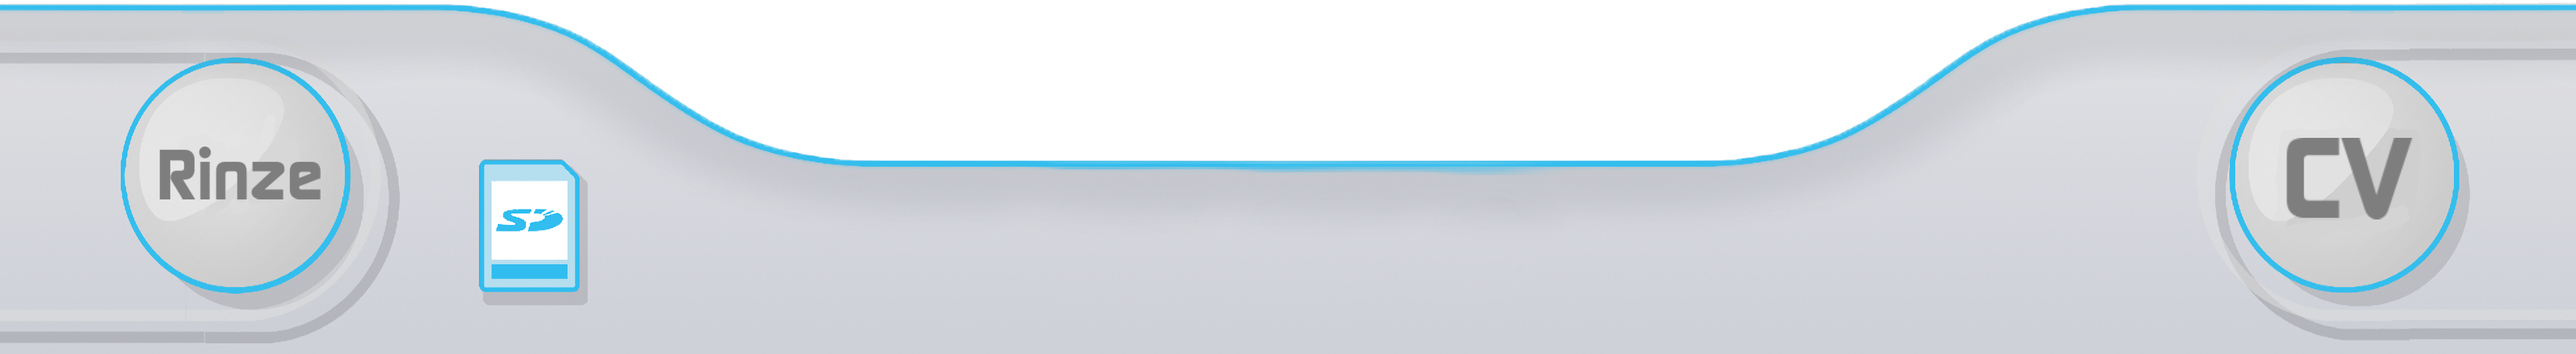
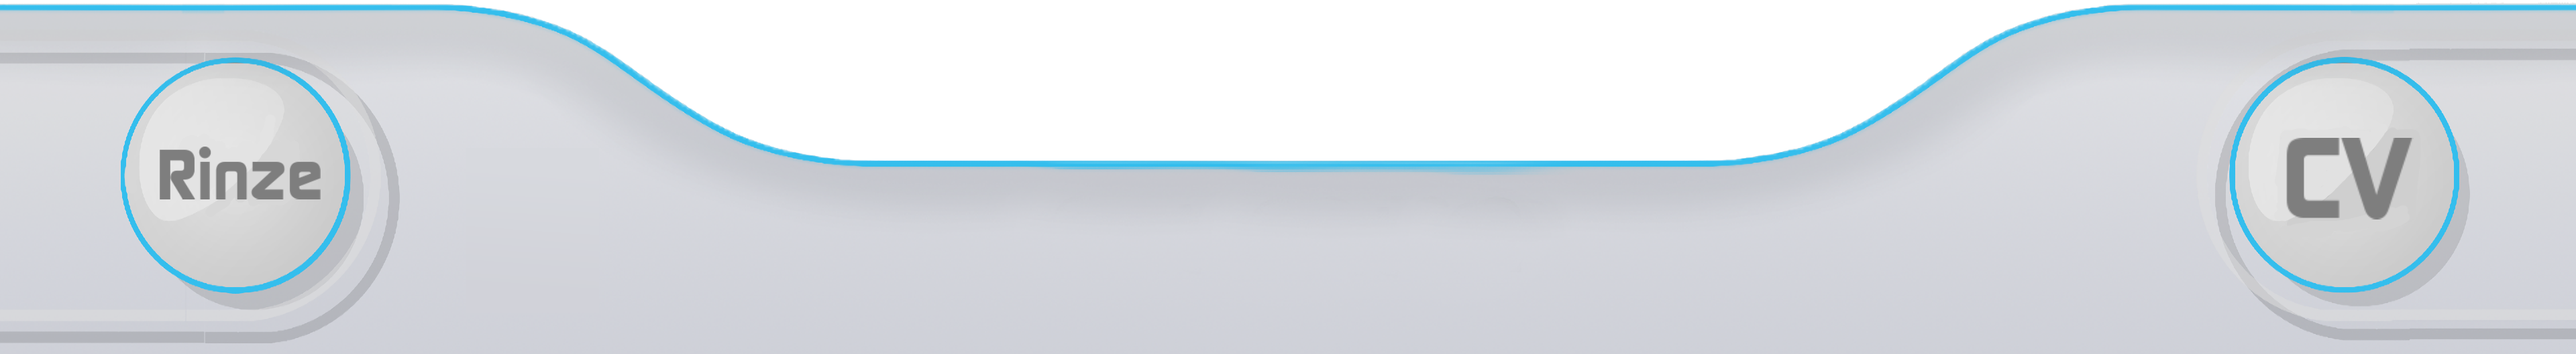
wadawd

Changed region(s): [[0.1875, 0.4234, 0.25, 0.8771]]

diff --git a/script.js b/script.js
@@ -1,4 +1,3 @@
-
 const overlay = document.getElementById("overlay");
 const overlay2 = document.getElementById("overlay2");
   let popup = document.querySelector(".popup");
@@ -247,15 +246,20 @@ cells.forEach(cell => {
     downloadLink: "https://schrecklock.itch.io/cadenza",
     title: "Monkey Survivors",
     tags: ["2024", "Unity", "2D", "Group", "Roguelike", "Bullet Hell", "Pixel-art", "Silly", "Addicting"],
-    description: `Monkey Survivors is a fast-paced mobile roguelike bullet hell focused on tight feedback, satisfying progression, and highly responsive combat. 
-    During this group project, I took a leading role in gameplay programming, feel, optimisation and art, implementing core systems such as: Player movement and combat responsiveness. 
-    
-    Enemy wave logic and object-pooling system. 
-    Visual and audio feedback systems.
-    
-    I also fully designed the UI and gameplay mechanics. I worked in Unity (C#) and focused on creating a highly polished game feel, aswell as a bunch off particle effects and sound-effects to make the game as addicting as possible. 
-    The result was one of the highest-reviewed projects in our class, largely due to its responsiveness and satisfying gameplay loop. 
-    This project significantly improved my ability to design systems that feel good, not just function correctly.`,
+    description: `
+      <p>Monkey Survivors is a fast-paced mobile roguelike bullet hell focused on tight feedback, satisfying progression, and highly responsive combat.</p>
+      
+      <p>During this group project, I took a leading role in gameplay programming, feel, optimisation and art, implementing core systems such as:</p>
+      <ul>
+        <li>Player movement and combat responsiveness</li>
+        <li>Enemy wave logic and object-pooling system</li>
+        <li>Visual and audio feedback systems</li>
+      </ul>
+      
+      <p>I also fully designed the UI and gameplay mechanics. I worked in Unity (C#) and focused on creating a highly polished game feel, as well as a bunch of particle effects and sound-effects to make the game as addicting as possible.</p>
+      
+      <p>The result was one of the highest-reviewed projects in our class, largely due to its responsiveness and satisfying gameplay loop. This project significantly improved my ability to design systems that feel good, not just function correctly.</p>
+    `,
     screenshots: ["Monkey Survivors Trailer.mp4"],
     },
 
@@ -264,7 +268,20 @@ cells.forEach(cell => {
     downloadLink: "https://gamejolt.com/games/FiveNightsatmarijns/902235",
     title: "Five Nights at Marijn's",
     tags: ["2025", "Unity", "Solo", "3D", "Horror", "Ambience", "Comedy", "Fast-paced"],
-    description: `You might be wondering what you are even seeing right now, I know this looks stupid (it is) but this is actually my very first solo project I did in my own time on and off for about a year, what started off as a joke about adding my friend into a Five Nights at Freddy's game quickly spiraled into one of my most ambitious solo projects:  7 fully playable nights with different game-elements in each, a shop and upgrade system, voice acting, cutscenes, minigames, 3 different endings and ALOT more! I did everything myself including the assets, sound-effects and writing (Which gave me experience in all elements in Game-Development). This is mainly what i worked on when i had time to learn more about Unity, truly a passion project I did for fun and the sheer stupidness of it all, please check out the GameJolt page!`,
+    description: `
+      <p>You might be wondering what you are even seeing right now, I know this looks stupid (it is) but this is actually my very first solo project I did in my own time on and off for about a year.</p>
+      
+      <p>What started off as a joke about adding my friend into a Five Nights at Freddy's game quickly spiraled into one of my most ambitious solo projects:</p>
+      <ul>
+        <li>7 fully playable nights with different game-elements in each</li>
+        <li>A shop and upgrade system</li>
+        <li>Voice acting and cutscenes</li>
+        <li>Minigames and 3 different endings</li>
+        <li>And much more!</li>
+      </ul>
+      
+      <p>I did everything myself including the assets, sound-effects and writing, which gave me experience in all elements of Game-Development. This is mainly what I worked on when I had time to learn more about Unity, truly a passion project I did for fun and the sheer stupidness of it all. Please check out the GameJolt page!</p>
+    `,
     screenshots: ["Five Nights at Marijn Official Trailer.mp4", "MarijnScreenshot1.png", "MarijnScreenshot2.png"],
     },
 
@@ -273,70 +290,142 @@ cells.forEach(cell => {
     downloadLink: "https://play.unity.com/en/games/26f5a560-8886-4f65-88a8-181877ededde/kamo",
     title: "Kamo",
     tags: ["2024", "Unity", "2D", "Shooter", "Pixel-Art", "URP", "Fast-paced"],
-    description: `Kamo is a 2D Roguelike shooter we made for a freedom of choice project, I quickly came up with ideas to make the game engaging with gun movement, through testing I was able to make the user-experience as high as we could make it gameplay-wise. My main focus during this project was adding visual identity and high graphical fidelity to improve the user-experience. I spent alot of time on pixel art and we made use of Unity's URP lighting as well as pixel-perfect camera techniques, this project was really a difficult experience as we haven't had much experience with Unity at the time, the scope is quite large with lots of upgrades and boss battles, but we were able to create what we wanted to with our planning techniques!`,
+    description: `
+      <p>Kamo is a 2D Roguelike shooter we made for a freedom of choice project.</p>
+      
+      <p>I quickly came up with ideas to make the game engaging with gun movement, and through testing I was able to make the user-experience as high as we could make it gameplay-wise.</p>
+      
+      <p>My main focus during this project was adding visual identity and high graphical fidelity to improve the user-experience. I spent a lot of time on pixel art and we made use of Unity's URP lighting as well as pixel-perfect camera techniques.</p>
+      
+      <p>This project was really a difficult experience as we hadn't had much experience with Unity at the time, and the scope is quite large with lots of upgrades and boss battles, but we were able to create what we wanted to with our planning techniques!</p>
+    `,
     screenshots: ["KamoGameplay.mp4", "Kamoimg1.png"],
     },
 
-        cadenza:{
+    cadenza:{
     splashImage: "CadenzaSplashgif.gif",
     downloadLink: "https://schrecklock.itch.io/cadenza",
     title: "Cadenza 🏆",
     tags: ["2025", "Unity", "2D", "Rythm", "Hand-drawn Art", "Story"],
-    description: `Cadenza got 15th place out of 1156 entries in Jacksepticeye's GameJam. On the 1st of October 2025 it was announced that popular Youtube creator Jacksepticeye would host one of the biggest Game Jams of the year, I took up the courage to join and found a group needing Coders for their project, which with some interviewing I got accepted in as one of the primary programmers. It was my first time in a professional Game Dev team, working 18 hour days to fit the 3 day deadline. My role focused heavily on core gameplay programming aswell as UI, game-loop and debugging. I designed and created the rhythm gameplay, aswell as using S.O.L.I.D programming principles to keep up with the growing scope of the project. We eventually published and it paid off big time, we were able to score some of the highest rating and became the 15th most popular entry in the GameJam! After the GameJam's succes the group came together and creating our new indie game team: JustATeam!`,
+    description: `
+      <p><strong>Cadenza got 15th place out of 1156 entries in Jacksepticeye's GameJam!</strong></p>
+      
+      <p>On the 1st of October 2025, popular Youtube creator Jacksepticeye announced he would host one of the biggest Game Jams of the year. I took up the courage to join and found a group needing Coders for their project, which with some interviewing I got accepted in as one of the primary programmers.</p>
+      
+      <p>It was my first time in a professional Game Dev team, working 18 hour days to fit the 3 day deadline. My role focused heavily on:</p>
+      <ul>
+        <li>Core gameplay programming</li>
+        <li>UI design and implementation</li>
+        <li>Game-loop and debugging</li>
+      </ul>
+      
+      <p>I designed and created the rhythm gameplay, as well as using S.O.L.I.D programming principles to keep up with the growing scope of the project. We eventually published and it paid off big time, scoring some of the highest ratings and becoming the 15th most popular entry in the GameJam!</p>
+      
+      <p>After the GameJam's success, the group came together and created our new indie game team: <strong>JustATeam!</strong></p>
+    `,
     screenshots: ["Cadenzaimg1.png", "Cadenzaimg2.png"],
     },
 
-        tilted:{
+    tilted:{
     splashImage: "TTSplashgif.gif",
     downloadLink: "https://schrecklock.itch.io/cadenza",
     title: "Tilted Towers",
     tags: ["2025", "Unity", "3D", "Puzzle", "Cell-Shaded", "Infinite"],
-    description: `Tilted Towers is a game we made for our rapid game-dev project, we had to plan out, conceptualise, document and create our game within 5 days, hence the smaller scope. I was tasked to create a game about using gravity for it's gameplay. The goal was to take a familiar concept and make it feel fresh through gravity based gameplay mechanics. My primary focus was learning and implementing Unity3D's Rigidbody and adding forces. Even though the development was short, this project taught me alot about rapid prototyping, scoping, and Unity's physics system.`,
+    description: `
+      <p>Tilted Towers is a game we made for our rapid game-dev project. We had to plan out, conceptualise, document and create our game within 5 days, hence the smaller scope.</p>
+      
+      <p>I was tasked to create a game about using gravity for its gameplay. The goal was to take a familiar concept and make it feel fresh through gravity based gameplay mechanics.</p>
+      
+      <p>My primary focus was learning and implementing Unity3D's Rigidbody and adding forces. Even though the development was short, this project taught me a lot about rapid prototyping, scoping, and Unity's physics system.</p>
+    `,
     screenshots: ["TTVid.mp4", "TTimg1.png"],
     },
 
-        phoenix:{
+    phoenix:{
     splashImage: "RMDPSplashgif.gif",
     downloadLink: "https://schrecklock.itch.io/cadenza",
     title: "De Ramp met de Phoenix",
     tags: ["2026", "Unity", "3D", "HDRP", "Simulator", "High-Fidelity", "Resource Management"],
-    description: `De Ramp met de Phoenix is a large scale 3D roguelike/resource management game built in Unity, developed for a real client as our first fully client-oriented project. The goal was to turn their educational board game into an engaging game for a younger audience. With a 9 week dev cycle, this became one of the most ambitious projects I had worked on to date, both technically and in scope. It challenged me alot because it's hard to design an educational game based on the client's expectations and new features I added within Unity, I really focused myself and finding a balance between it being educational, but also engaging so it doesnt feel educational. In this project i worked alot in Unity HDRP (High Definition Render Pipeline) which helped me create realistic water and lighting physics. I also worked on reusable code compiling, I made my code as reusable as possible and made it easy to use for my other teammates, like creating UI-objects that developers can drag and drop into their scene so they don't have to develop anything themselves. Designing the UI in this project was very difficult, the game was very realistic and I wanted to find a good balance between easy to understand UI, while also making it feel complexer than it is. The final result is a polished and well-received product that was used within our client's schools. This projects taught me how to work professionally within real product constraints and larger scale projects. `,
-    screenshots: ["RMDPVid.mp4", "RMDPimg2.png", "RMDPimg1.png", "RMDPimg3.png",],
+    description: `
+      <p>De Ramp met de Phoenix is a large scale 3D roguelike/resource management game built in Unity, developed for a real client as our first fully client-oriented project.</p>
+      
+      <p>The goal was to turn their educational board game into an engaging game for a younger audience. With a 9 week dev cycle, this became one of the most ambitious projects I had worked on to date, both technically and in scope.</p>
+      
+      <p>It challenged me a lot because it's hard to design an educational game based on the client's expectations and new features I added within Unity. I really focused myself on finding a balance between it being educational, but also engaging so it doesn't feel educational.</p>
+      
+      <p>In this project I worked a lot in Unity HDRP (High Definition Render Pipeline) which helped me create realistic water and lighting physics. I also worked on reusable code compiling, making my code as reusable as possible and easy to use for my teammates, like creating UI-objects that developers can drag and drop into their scene.</p>
+      
+      <p>Designing the UI in this project was very difficult. The game was very realistic and I wanted to find a good balance between easy to understand UI, while also making it feel more complex than it is. The final result is a polished and well-received product that was used within our client's schools.</p>
+      
+      <p>This project taught me how to work professionally within real product constraints and larger scale projects.</p>
+    `,
+    screenshots: ["RMDPVid.mp4", "RMDPimg2.png", "RMDPimg1.png", "RMDPimg3.png"],
     },
 
-        tanked:{
+    tanked:{
     splashImage: "TankedSplashgif.gif",
     downloadLink: "https://schrecklock.itch.io/cadenza",
     title: "Tanked!",
-    tags: ["2025", "Unity", "2D", "Multiplayer", "Turn-based", "Multiplayer", "Strategy"],
-    description: `Tanked! is a turn-based multiplayer strategy game built in Unity during a 5-day rapid development project, where planning and efficient teamwork were essential. My main focus was gameplay programming and project planning, using planning techniques like user stories and master planning, I also designed the gameplay. The shorter development timeframe meant I had to design the game based on reusing already made elements. Despite the short timeframe, we created a polished and replayable experience, teaching me valuable lessons in rapid prototyping, planning, and working efficiently under pressure.`,
+    tags: ["2025", "Unity", "2D", "Multiplayer", "Turn-based", "Strategy"],
+    description: `
+      <p>Tanked! is a turn-based multiplayer strategy game built in Unity during a 5-day rapid development project, where planning and efficient teamwork were essential.</p>
+      
+      <p>My main focus was gameplay programming and project planning, using planning techniques like user stories and master planning. I also designed the gameplay.</p>
+      
+      <p>The shorter development timeframe meant I had to design the game based on reusing already made elements. Despite the short timeframe, we created a polished and replayable experience, teaching me valuable lessons in rapid prototyping, planning, and working efficiently under pressure.</p>
+    `,
     screenshots: ["Tankedimg1.png"],
     },
 
-            starry:{
+    starry:{
     splashImage: "StarrySplashgif.gif",
     downloadLink: "",
     title: "Starry",
-    tags: ["2024", "Monogame", "2D", "Shooter", "Pixel-Art", ],
-    description: `Starry is a very basic shooter game i made within Monogame, which was my first time using it. Monogame is a way more bare-bones difficult to use game-dev tool, in fact its not even a software it's a framework so everything is done within your IDE. This project may be small but it forced me to think outside of the box and use advanced coding techniques to calculate angles and rotations. This really helped me shape my ways of thought while coding and skyrocketed my C# skills for the better. I also based my pixel-art to make it seem like the game is being played on a GameBoy for some visual identity.`,
+    tags: ["2024", "Monogame", "2D", "Shooter", "Pixel-Art"],
+    description: `
+      <p>Starry is a very basic shooter game I made within Monogame, which was my first time using it. Monogame is a way more bare-bones, difficult to use game-dev tool. In fact, it's not even software—it's a framework—so everything is done within your IDE.</p>
+      
+      <p>This project may be small, but it forced me to think outside the box and use advanced coding techniques to calculate angles and rotations. This really helped me shape my ways of thought while coding and skyrocketed my C# skills for the better.</p>
+      
+      <p>I also based my pixel-art to make it seem like the game is being played on a GameBoy for some visual identity.</p>
+    `,
     screenshots: ["StarryGamePlay.png"],
     },
 
-            rustbucket:{
+    rustbucket:{
     splashImage: "RustbucketSplashgif.gif",
     downloadLink: "https://www.instagram.com/justateam_games/",
     title: "Rustbucket",
     tags: ["2026", "Unity", "3D", "In-Development", "Horror", "Story"],
-    description: `Rustbucket is a survival horror game project currently in development by my indie game team. While not much info has been released, I am currently working on shader creation. We are pushing for a fall 2026 release date, this game will be avaliable for purchase on Steam.`,
+    description: `
+      <p>Rustbucket is a survival horror game project currently in development by my indie game team.</p>
+      
+      <p>While not much info has been released yet, I am currently working on shader creation. We are pushing for a fall 2026 release date, and this game will be available for purchase on Steam.</p>
+    `,
     screenshots: ["Rustbucketimg1.png", "Rustbucketvid.mp4", "MS_screen3.png"],
     },
 
-            lighting:{
+    lighting:{
     splashImage: "UnitySplashgif.gif",
     downloadLink: "https://sway.cloud.microsoft/TiA6fXiYOHzxeHs3",
     title: "Lighting study",
     tags: ["2026", "Unity", "2D", "Shooter", "Pixel-Art", "URP", "Fast-paced"],
-    description: `Lighting Study is a technical research project focused on improving my environmental lighting and visual presentation skills in Unity. As my games became more ambitious, I realized that strong lighting is one of the biggest factors in making a game feel professional, immersive, and visually polished, I also really enjoy working with it so I decided to specialize in it. During this project I explored Unity lighting using HDRP, baked lighting, volumetric fog, post-processing, and particle-based atmospheric effects, while also comparing Unity’s pipeline to Blender’s lighting tools. I applied these techniques directly to one of my older projects and significantly improved both its visual quality and performance which i applied into my other projects (like Het Ramp met de Phoenix). This project taught me how much visual presentation can improve gameplay and hold retention on your game.`,
+    description: `
+      <p>Lighting Study is a technical research project focused on improving my environmental lighting and visual presentation skills in Unity. As my games became more ambitious, I realized that strong lighting is one of the biggest factors in making a game feel professional, immersive, and visually polished.</p>
+      
+      <p>During this project I explored:</p>
+      <ul>
+        <li>Unity lighting using HDRP</li>
+        <li>Baked lighting</li>
+        <li>Volumetric fog</li>
+        <li>Post-processing</li>
+        <li>Particle-based atmospheric effects</li>
+      </ul>
+      
+      <p>I also compared Unity's pipeline to Blender's lighting tools. I applied these techniques directly to one of my older projects and significantly improved both its visual quality and performance, which I then applied into my other projects (like De Ramp met de Phoenix).</p>
+      
+      <p>This project taught me how much visual presentation can improve gameplay and hold retention on your game.</p>
+    `,
     screenshots: ["Lightingimg2.jpg", "Lightingimg1.jpg", "MS_screen3.png"],
     }
   };
@@ -347,7 +436,7 @@ cells.forEach(cell => {
   const tagsEl = document.querySelector(".info-tags");
   tagsEl.innerHTML = data.tags.map(t => `<span class="tag">${t}</span>`).join("");
 
-  document.querySelector(".info-description").textContent = data.description;
+  document.querySelector(".info-description").innerHTML = data.description;
 
   const container = document.querySelector(".info-right");
   container.querySelectorAll(".info-screenshot, .info-video").forEach(el => el.remove());

diff --git a/style1.css b/style1.css
@@ -115,6 +115,7 @@ z-index:3;
 
 }
 
+
 #CVButton img{
 width: 9.7vw;
 transition: transform .2s;
@@ -122,6 +123,25 @@ transition: transform .2s;
 
 #CVButton:hover img{
   transform: scale(1.05);
+}
+
+#Abutton{
+position: absolute;
+width: 5.7vw;
+height: 7vw;
+top: 39.8%;
+left: 17.6%;
+z-index:3;
+      cursor: url(cursor1.png), auto;
+      background: none; 
+      border: none;
+}
+#Abutton img{
+  width: 5.5vw;
+  transition: transform .2s;
+}
+#Abutton:hover img{
+  transform: translateY(-10px);
 }
 
 .gamescene{
@@ -473,7 +493,7 @@ transition: transform .2s;
     border: 4px solid #51bbda;
   font-family: 'Lucida Sans', 'Lucida Sans Regular', 'Lucida Grande', 'Lucida Sans Unicode', Geneva, Verdana, sans-serif;
   text-align: center;
-  font-size: 1vw;
+  font-size: 0.93vw;
   color: #3b3b3b;
   line-height: 1.6;
 }
@@ -651,7 +671,7 @@ transition: transform .2s;
 }
 .audioname{
       position: absolute;
-      top: 58%;
+      top: 58.5%;
       left: 28.2%;
       font-size: 1.1vw;
       font-family: 'Lucida Sans', 'Lucida Sans Regular', 'Lucida Grande', 'Lucida Sans Unicode', Geneva, Verdana, sans-serif;
@@ -663,9 +683,9 @@ transition: transform .2s;
 }
 #musicnote{
         position: absolute;
-      width: 3vw;
-      top: 60.4%;
-      left: 25%;   
+      width: 3.6vw;
+      top: 56%;
+      left: 24.4%;   
       transition: transform .2s ease;
 }
 #blackFade{

diff --git a/index.html b/index.html
@@ -65,8 +65,9 @@
   <div class="popup-inner">
     <div class="popup-left">
       <div class="popuptext">
-        Hey! My name is Rinze and welcome to my portfolio! <b>Maybe you recognise what I designed it after :)</b>.
-        I'm a 19 year old Software Dev from the Netherlands.
+        <p>Hey! My name is Rinze Kuizenga and welcome to my portfolio! <b>Maybe you recognise what I designed it after :)</b>.</p>
+
+        <p>I'm a 19 year old Software Dev from the Netherlands.</p>
         I have 3 years of experience mainly in Unity C#, HTML, CSS and Javascript, but I also have worked alot with Python and Three.js.
         In my free-time (besides coding) I love working on video editing and graphic design; like recreating the UI's of my favorite games in Unity and animating them to be as responsive as possible. I find it very satisfying :).
         I'm always making new stuff and putting it here so feel free to check out my games and projects!
@@ -101,6 +102,9 @@
   <img id="TextBubble" src="TextBubble.png">
   <span class="TextBubbleText">Welcome to my portfolio! :)</span>
 </div>
+<button id="Abutton" onclick="openA(); playSelect();">
+  <img src="AteamImg.png">
+</button>
   <button id="CVButton" onclick="openCV(); playSelect();">
     <img src="CVButton.png"/>
   </button>
